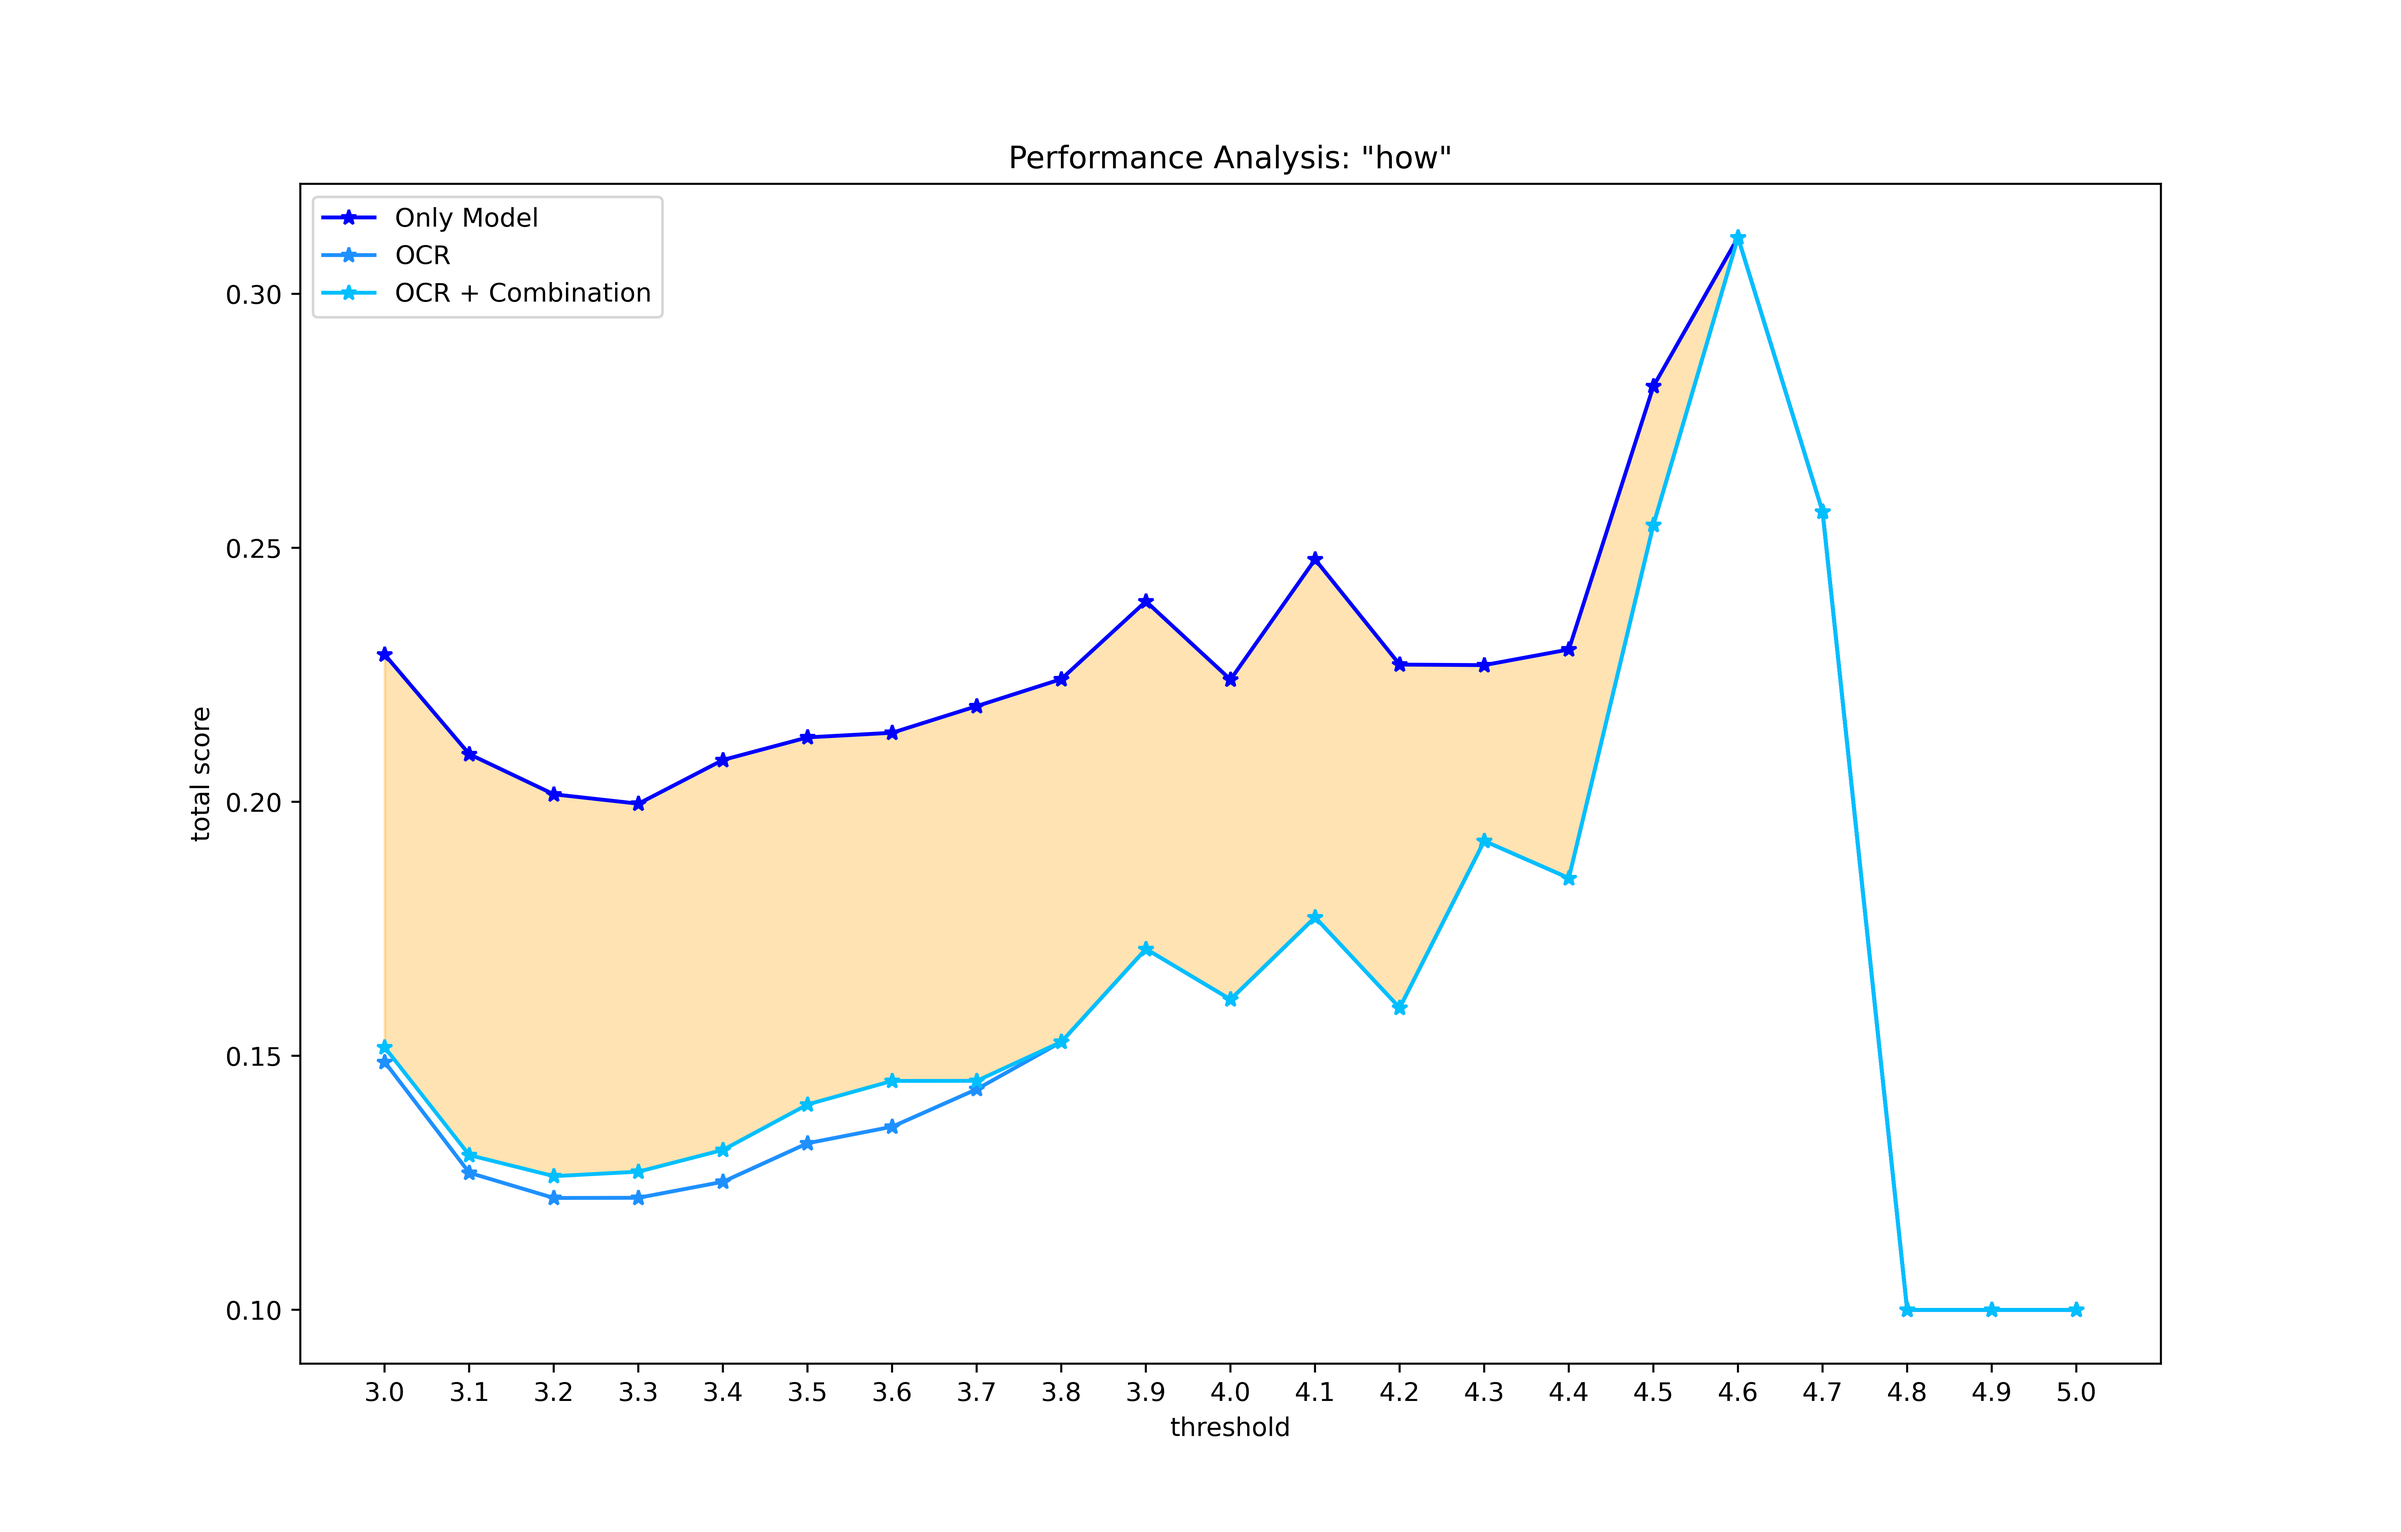
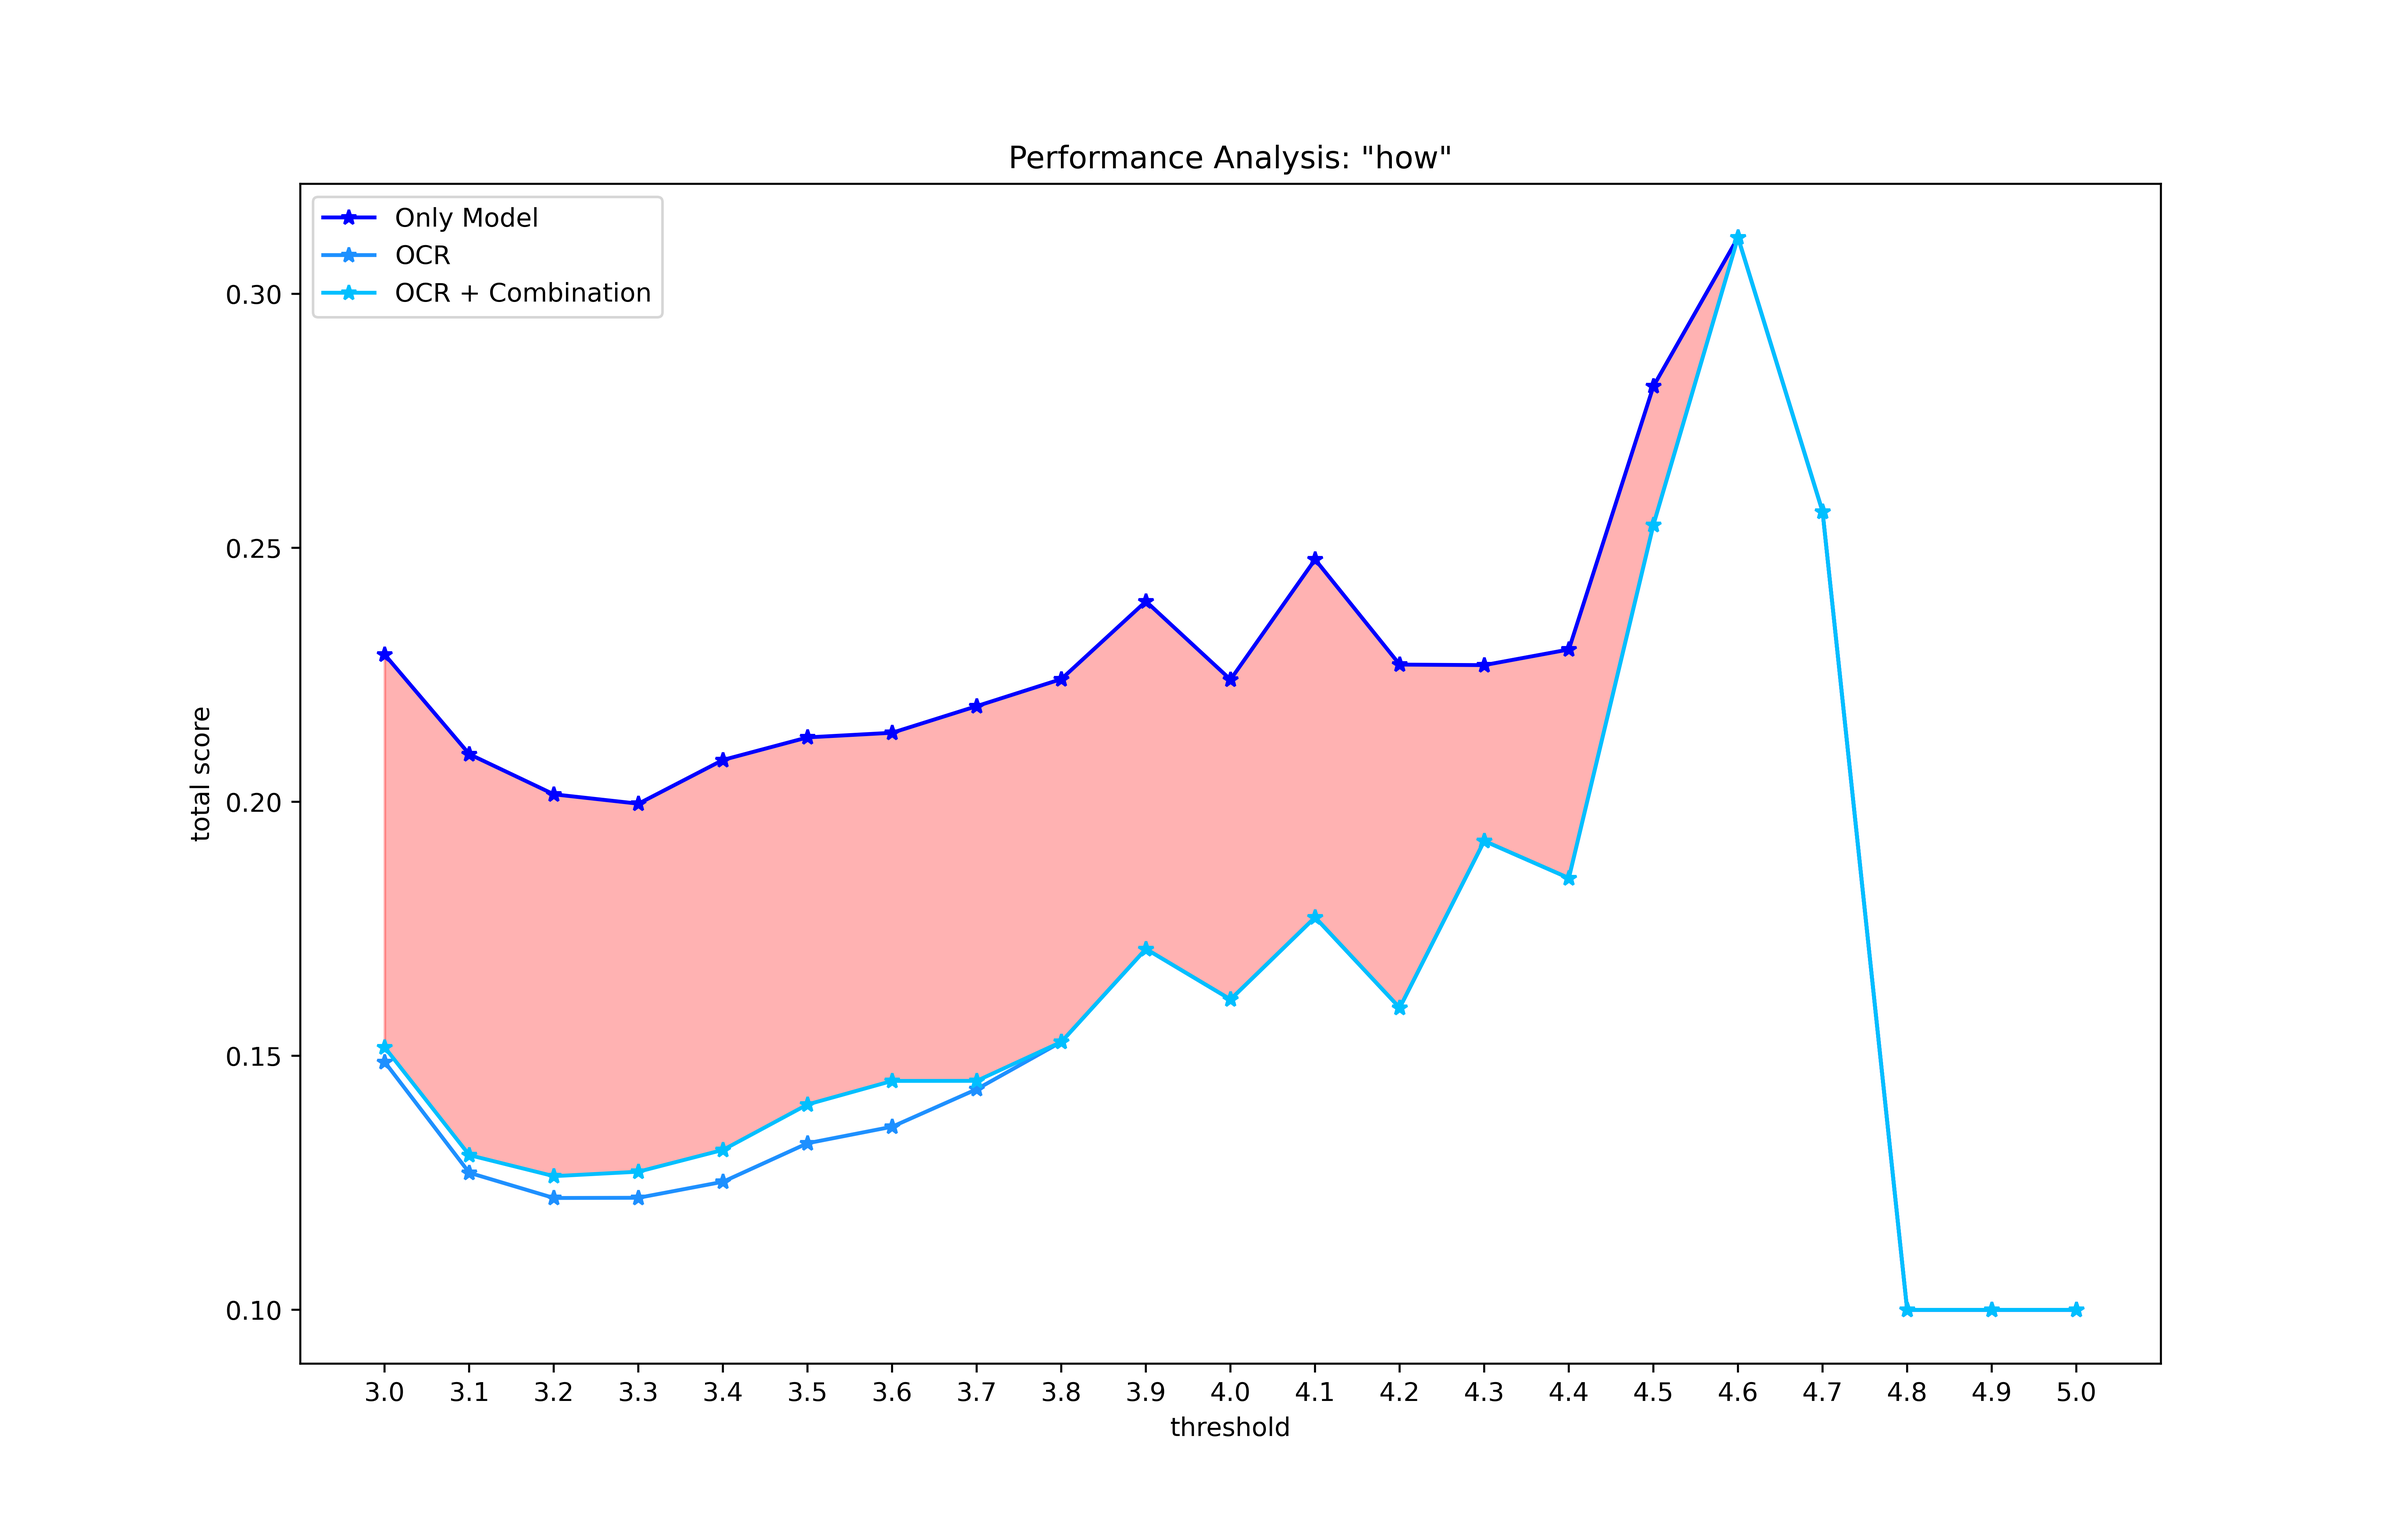
colored red and yellow

Changed region(s): [[0.1562, 0.1865, 0.7183, 0.7771]]

diff --git a/09_improvement_test_2/visualize_score_per_type.py b/09_improvement_test_2/visualize_score_per_type.py
@@ -47,8 +47,7 @@ for qtype in tqdm.tqdm(QUESTION_TYPE):
                 exprs.append(json_file)
         for expe in range(len(experiment)):
             results[expe].append(exprs[expe][qtype])
-    # print(results)
-    
+
     for elem, c, l in zip(results, colors, labels):
         plt.plot(threshold, elem, color=c, label=l, marker='*')
     plt.xlabel('threshold')
@@ -57,7 +56,10 @@ for qtype in tqdm.tqdm(QUESTION_TYPE):
     plt.legend(loc='upper left')
     plt.title("Performance Analysis: \"{qtype}\"".format(qtype=qtype))
     plt.gcf().set_size_inches(13, 8.3)
-    plt.fill_between(threshold, results[0], results[2], color = 'orange', alpha = 0.3)
+
+    y1 = np.array(results[0]); y2 = np.array(results[2])
+    plt.fill_between(threshold, y1, y2, where=y1 <= y2, color = 'orange', alpha = 0.3, interpolate=True)
+    plt.fill_between(threshold, y1, y2, where=y1 >= y2, color = 'red', alpha = 0.3, interpolate=True)
     # mng = plt.get_current_fig_manager()
     # mng.full_screen_toggle()
 
